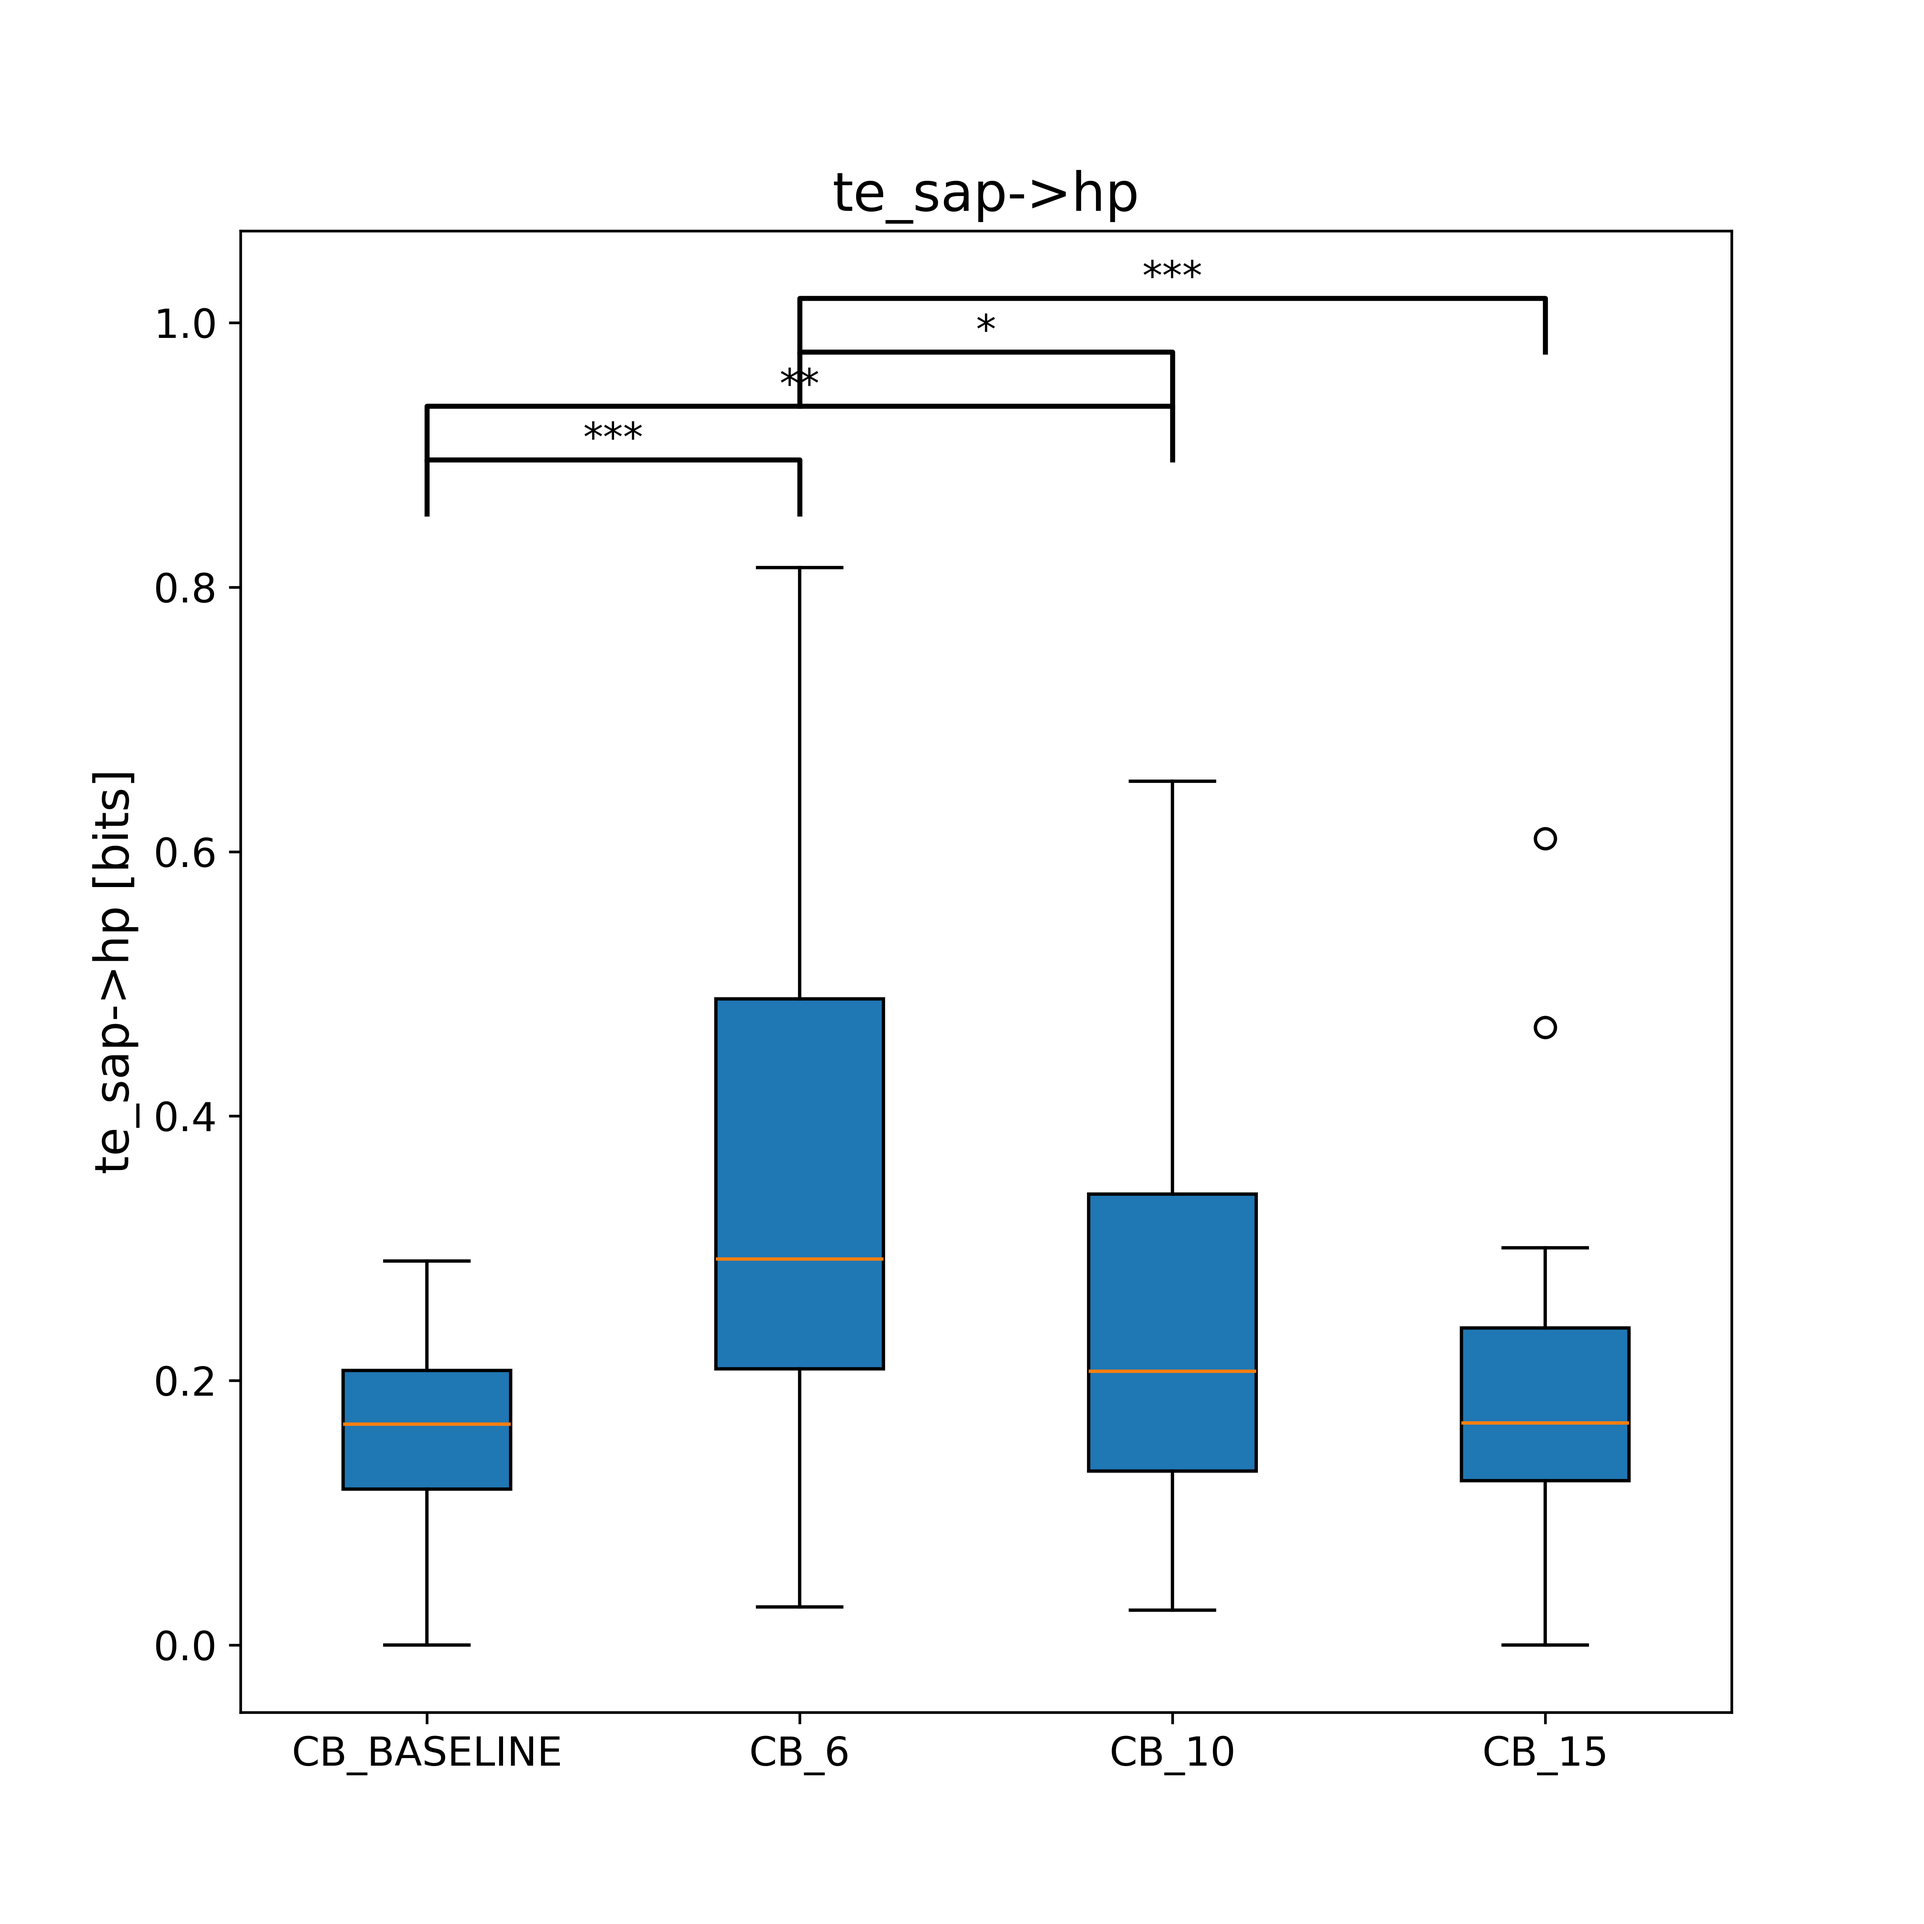
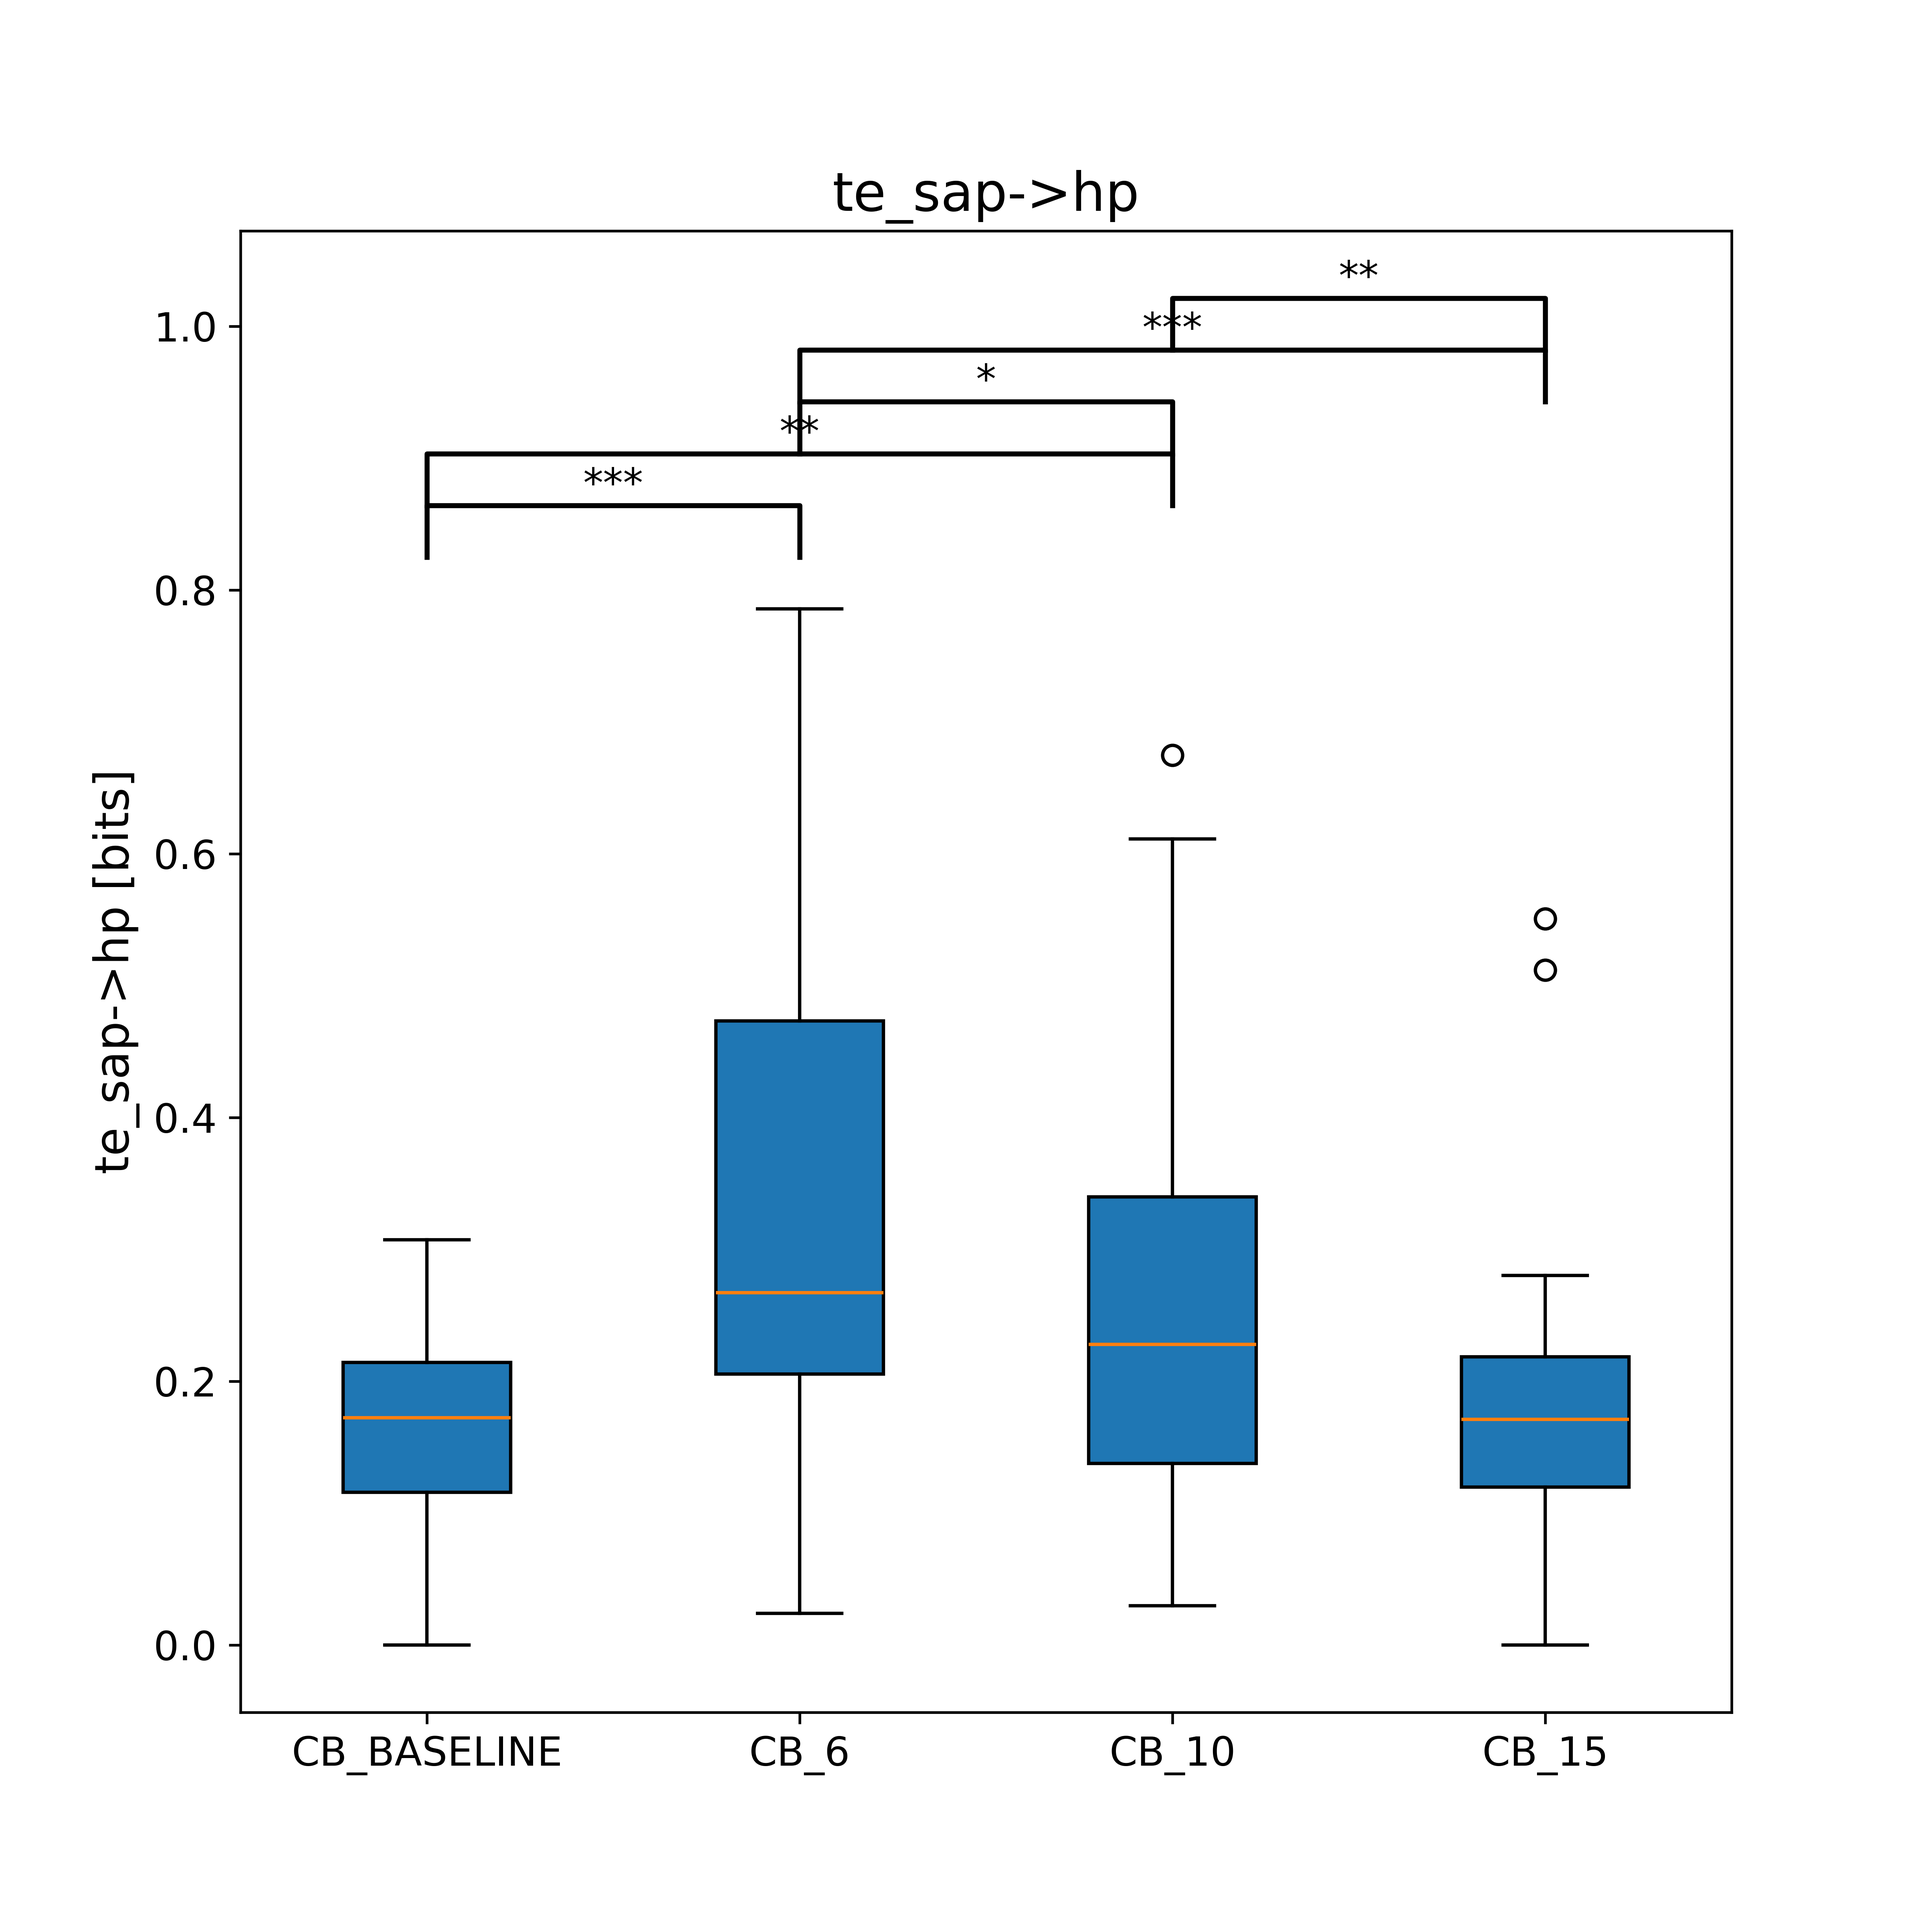
Fixing ranking, and cjte calculation if W=Y, and reducing plots with results

diff --git a/src/data_process/entropy/conditional_joint_transfer_entropy.py b/src/data_process/entropy/conditional_joint_transfer_entropy.py
@@ -15,10 +15,96 @@ def cjte_dv(
     signalX: NDArray[np.floating],
     signalY: NDArray[np.floating],
     signalZ: NDArray[np.floating],
-    signalW: NDArray[np.floating],
+    signalW: NDArray[np.floating] | None = None,
     time_delay: int = DEFAULT_TIME_DELAY,
     embedding_dimension: int = DEFAULT_EMBEDDING_DIMENSION,
-    dvp_alpha=DEFAULT_SIGNIFICANCE_LEVEL,
+    dvp_alpha: float = DEFAULT_SIGNIFICANCE_LEVEL,
+) -> float:
+    """
+    Calculates the conditional joint transfer entropy
+
+    If W is not None, unique signal then uses formula:
+        CJTE_{(X,Y)->Z|W}
+
+    If W is None, then the following formula is assumed:
+        CJTE_{(X,Y)->Z|Y}
+    """
+    if signalW is None:
+        return _cjte_y_is_w(
+            signalX=signalX,
+            signalY=signalY,
+            signalZ=signalZ,
+            time_delay=time_delay,
+            embedding_dimension=embedding_dimension,
+            dvp_alpha=dvp_alpha,
+        )
+    return _cjte_w_is_different(
+        signalX=signalX,
+        signalY=signalY,
+        signalZ=signalZ,
+        signalW=signalW,
+        time_delay=time_delay,
+        embedding_dimension=embedding_dimension,
+        dvp_alpha=dvp_alpha,
+    )
+
+
+def _cjte_y_is_w(
+    signalX: NDArray[np.floating],
+    signalY: NDArray[np.floating],
+    signalZ: NDArray[np.floating],
+    time_delay: int,
+    embedding_dimension: int,
+    dvp_alpha: float,
+) -> float:
+    """
+    Calculates the conditional joint transfer entropy of CJTE_{(X,Y)->Z|Y}
+    """
+    if not len(signalX) == len(signalY) == len(signalZ):
+        logger.error(
+            f"""Signals should have the same legth, instead have: \n
+            X:{len(signalX)}, Y:{len(signalY)}, Z:{len(signalZ)}"""
+        )
+        raise ValueError('time series entries need to have same length')
+
+    futureZ = get_future_vector(signalZ, d=embedding_dimension, tau=time_delay)
+    pastX, pastY, pastZ = (
+        get_past_vectors(signal, d=embedding_dimension, tau=time_delay) for signal in [signalX, signalY, signalZ]
+    )
+
+    a = np.column_stack([futureZ, pastZ, pastX, pastY])
+    b = np.column_stack([pastZ, pastY])
+    c = np.column_stack([futureZ, pastZ, pastY])
+    d = np.column_stack([pastZ, pastX, pastY])
+
+    dv_result = dv_partition_nd(a, alpha=dvp_alpha)
+    dimensions = a.shape[1]
+    n_total = a.shape[0]
+
+    futureZ_start, futureZ_end = 0, 1
+    pastZ_start, pastZ_end = futureZ_end, embedding_dimension + 1
+    pastY_start, pastY_end = 2 * embedding_dimension + 1, dimensions
+
+    cjte: float = 0
+    for dv_part in dv_result:
+        na = dv_part['N']
+        nb = get_points_from_range(b, dv_part, ranges=((pastZ_start, pastZ_end), (pastY_start, pastY_end)))
+        nc = get_points_from_range(c, dv_part, ranges=((futureZ_start, pastZ_end), (pastY_start, pastY_end)))
+        nd = get_points_from_range(d, dv_part, ranges=((pastZ_start, pastY_end),))
+
+        cjte += na / n_total * (np.log2(na * nb) - np.log2(nc * nd))
+
+    return cjte
+
+
+def _cjte_w_is_different(
+    signalX: NDArray[np.floating],
+    signalY: NDArray[np.floating],
+    signalZ: NDArray[np.floating],
+    signalW: NDArray[np.floating],
+    time_delay: int,
+    embedding_dimension: int,
+    dvp_alpha: float,
 ) -> float:
     """
     Calculates the conditional joint transfer entropy of CJTE_{(X,Y)->Z|W}

diff --git a/thesis/chapters/results.tex b/thesis/chapters/results.tex
@@ -10,92 +10,6 @@
 
 \begin{figure}[H]
     \centering
-    \includegraphics[width=\linewidth]{figs/results/physiological/te_sap->hp paired.png}
-    \caption{}
-\end{figure}
-
-\begin{figure}[H]
-    \centering
-    \includegraphics[width=\linewidth]{figs/results/physiological/te_hp->sap.png}
-    \caption{}
-\end{figure}
-
-\begin{figure}[H]
-    \centering
-    \includegraphics[width=\linewidth]{figs/results/physiological/te_hp->sap paired.png}
-    \caption{}
-\end{figure}
-
-\begin{figure}[H]
-    \centering
-    \includegraphics[width=\linewidth]{figs/results/physiological/cte_sap->hp|etco2.png}
-    \caption{}
-\end{figure}
-
-\begin{figure}[H]
-    \centering
-    \includegraphics[width=\linewidth]{figs/results/physiological/cte_sap->hp|etco2 paired.png}
-    \caption{}
-\end{figure}
-
-\begin{figure}[H]
-    \centering
-    \includegraphics[width=\linewidth]{figs/results/physiological/cte_hp->sap|etco2.png}
-    \caption{}
-\end{figure}
-
-\begin{figure}[H]
-    \centering
-    \includegraphics[width=\linewidth]{figs/results/physiological/cte_hp->sap|etco2 paired.png}
-    \caption{}
-\end{figure}
-
-\begin{figure}[H]
-    \centering
-    \includegraphics[width=\linewidth]{figs/results/physiological/jte_(sap,etco2)->hp.png}
-    \caption{}
-\end{figure}
-
-\begin{figure}[H]
-    \centering
-    \includegraphics[width=\linewidth]{figs/results/physiological/jte_(sap,etco2)->hp paired.png}
-    \caption{}
-\end{figure}
-
-\begin{figure}[H]
-    \centering
-    \includegraphics[width=\linewidth]{figs/results/physiological/jte_(hp,etco2)->sap.png}
-    \caption{}
-\end{figure}
-
-\begin{figure}[H]
-    \centering
-    \includegraphics[width=\linewidth]{figs/results/physiological/jte_(hp,etco2)->sap paired.png}
-    \caption{}
-\end{figure}
-
-
-\begin{figure}[H]
-    \centering
     \includegraphics[width=\linewidth]{figs/results/physiological/cjte_(sap,etco2)->hp|etco2.png}
     \caption{}
 \end{figure}
-
-\begin{figure}[H]
-    \centering
-    \includegraphics[width=\linewidth]{figs/results/physiological/cjte_(sap,etco2)->hp|etco2 paired.png}
-    \caption{}
-\end{figure}
-
-\begin{figure}[H]
-    \centering
-    \includegraphics[width=\linewidth]{figs/results/physiological/cjte_(hp,etco2)->sap|etco2.png}
-    \caption{}
-\end{figure}
-
-\begin{figure}[H]
-    \centering
-    \includegraphics[width=\linewidth]{figs/results/physiological/cjte_(hp,etco2)->sap|etco2 paired.png}
-    \caption{}
-\end{figure}
-

diff --git a/main.py b/main.py
@@ -7,7 +7,7 @@ from src.statistics import StatisticsAnalyzer
 matplotlib.use('Agg')
 
 # %%
-RESULTS_CSV_FILE_NAME = 'results.csv'
+RESULTS_CSV_FILE_NAME = 'results2.csv'
 data_loader = BaroreflexDataLoader()
 data_processor = BaroreflexDataProcessor()
 
@@ -19,21 +19,12 @@ processed_data = data_processor.process_all(raw_data)
 results_generator = BaroreflexResultsGenerator(processed_data)
 
 # %%
-sap_hp = results_generator.add_te('hp', 'sap')
-hp_sap = results_generator.add_te('sap', 'hp')
-cte_sap_hp = results_generator.add_cte('hp', 'sap', 'etco2')
-cte_hp_sap = results_generator.add_cte('sap', 'hp', 'etco2')
-jte_sap_etco2 = results_generator.add_jte('sap', 'etco2', 'hp')
-jte_hp_etco2 = results_generator.add_jte('hp', 'etco2', 'sap')
-cjte_sap = results_generator.add_cjte('sap', 'etco2', 'hp', 'etco2')
-cjte_hp = results_generator.add_cjte('hp', 'etco2', 'sap', 'etco2')
+sap_hp = results_generator.add_te(y_name='sap', x_name='hp')
+cjte_sap_hp = results_generator.add_cjte('sap', 'etco2', 'hp', 'etco2')
 
 # %%
 results_generator.generate_results_csv(RESULTS_CSV_FILE_NAME)
 
 # %%
 analyzer = StatisticsAnalyzer(RESULTS_CSV_FILE_NAME)
-[
-    analyzer.do_rm_anova_test(field)
-    for field in [sap_hp, hp_sap, cte_sap_hp, cte_hp_sap, jte_sap_etco2, jte_hp_etco2, cjte_sap, cjte_hp]
-]
+[analyzer.do_rm_anova_test(field) for field in [sap_hp, cjte_sap_hp]]

diff --git a/src/data_process/results_generators/baroreflex_results_generator.py b/src/data_process/results_generators/baroreflex_results_generator.py
@@ -62,6 +62,7 @@ class BaroreflexResultsGenerator(ResultsGenerator):
                 for sig_name in [x_name, y_name, z_name, w_name]
             )
             if x is not None and y is not None and z is not None and w is not None:
+                w = w if w_name != y_name else None
                 self._add_result(
                     cb_data_type=cb_data_type,
                     patient_id=patient_id,

diff --git a/src/data_process/entropy/utils.py b/src/data_process/entropy/utils.py
@@ -7,7 +7,7 @@ from scipy.stats import rankdata
 from src.common.mytypes import FloatArray
 from src.data_process.entropy.dvp import DVPartition
 
-_DEFAULT_RANKING_METHOD = 'ordinal'
+_DEFAULT_RANKING_METHOD = 'average'
 
 
 def get_points_from_range(
